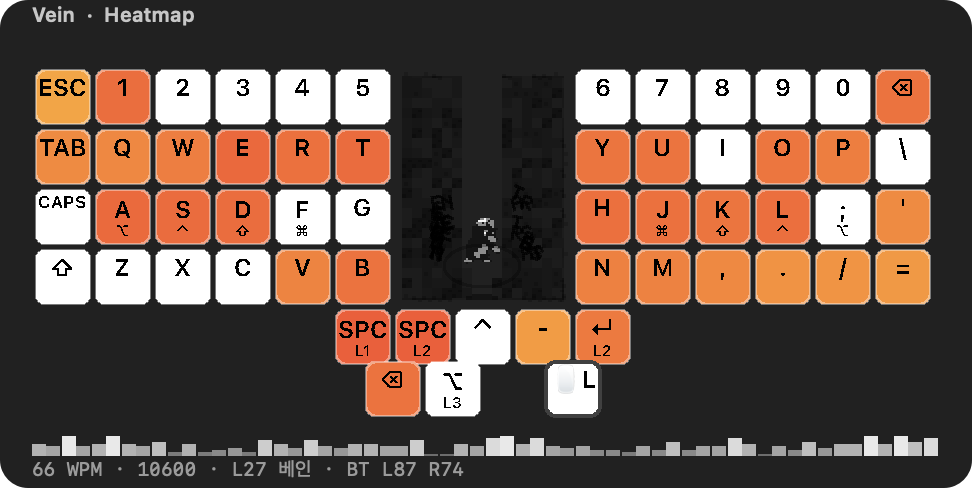
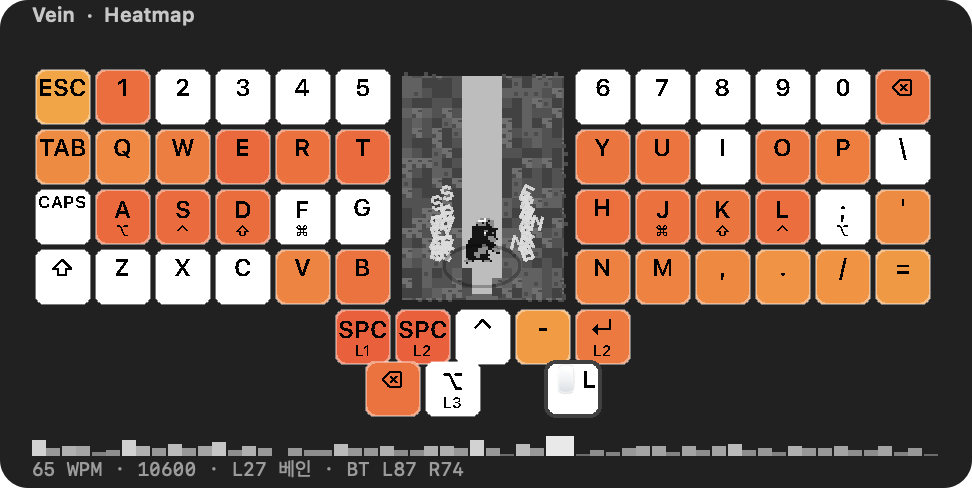
Lighten the shaft well so the miner reads on a dark card
The crater was a hole through to the HUD, so the dark 3-tone
sprite disappeared. Fill the pit with a well lighter than the
body; README shots force the dark-HUD dirt tones.

Changed region(s): [[0.4012, 0.1537, 0.5864, 0.6148], [0.0309, 0.8914, 0.9877, 0.9529]]

diff --git a/Companion.swift b/Companion.swift
@@ -40,6 +40,48 @@ struct GlyphMote {
     var spin: CGFloat
 }
 
+/// Shaft colors that keep the dark 3-tone sprite readable.
+/// `ink` is the UI text color: light on a dark HUD, dark on a light HUD.
+private struct ShaftTone {
+    let well: NSColor
+    let dirtLo: NSColor
+    let dirtMid: NSColor
+    let dirtHi: NSColor
+    let stone: NSColor
+    let stoneMark: NSColor
+    let lip: NSColor
+    let vein: NSColor
+
+    static func make(_ ink: NSColor) -> ShaftTone {
+        let c = ink.usingColorSpace(.deviceRGB) ?? ink
+        let luma = 0.2126 * c.redComponent + 0.7152 * c.greenComponent + 0.0722 * c.blueComponent
+        // Well is always lighter than the sprite's mid gray (~0.55) so the
+        // body reads. Dirt stays darker than the well (earth around a hole).
+        if Companion.exportShot || luma > 0.5 {
+            return ShaftTone(
+                well: NSColor(white: 0.74, alpha: 1),
+                dirtLo: NSColor(white: 0.26, alpha: 1),
+                dirtMid: NSColor(white: 0.32, alpha: 1),
+                dirtHi: NSColor(white: 0.38, alpha: 1),
+                stone: NSColor(white: 0.44, alpha: 1),
+                stoneMark: NSColor(white: 0.30, alpha: 1),
+                lip: NSColor(white: 0.40, alpha: 1),
+                vein: NSColor(white: 0.86, alpha: 0.88)
+            )
+        }
+        return ShaftTone(
+            well: NSColor(white: 0.80, alpha: 1),
+            dirtLo: NSColor(white: 0.58, alpha: 1),
+            dirtMid: NSColor(white: 0.66, alpha: 1),
+            dirtHi: NSColor(white: 0.72, alpha: 1),
+            stone: NSColor(white: 0.50, alpha: 1),
+            stoneMark: NSColor(white: 0.40, alpha: 1),
+            lip: NSColor(white: 0.52, alpha: 1),
+            vein: NSColor(white: 0.22, alpha: 0.88)
+        )
+    }
+}
+
 final class Companion {
     static let shared = Companion()
 
@@ -59,6 +101,9 @@ final class Companion {
     private var bobKick: CGFloat = 0
     static let craterDepth: CGFloat = 14
     static let tile: CGFloat = 5
+    /// README / share shots sit on a dark card even when the key palette
+    /// is light — force the dark-HUD shaft so the miner is not on beige.
+    static var exportShot = false
     var shaftTarget: NSPoint = .zero
     var onFrame: (() -> Void)?
 
@@ -303,6 +348,13 @@ final class Companion {
 
     private func drawShaft(in shaft: NSRect, ink: NSColor) {
         NSGraphicsContext.current?.shouldAntialias = false
+        let tone = ShaftTone.make(ink)
+        // Light well first — the crater is a hole, and a dark sprite on the
+        // dark card / HUD disappears. Dirt tiles then cover everything but
+        // the pit, so the miner stands in dust, not in a black gap.
+        tone.well.setFill()
+        shaft.fill()
+
         let tile = Companion.tile
         let feetY = shaftTarget.y
         let floorY = shaft.minY
@@ -324,12 +376,11 @@ final class Companion {
                     continue
                 }
                 let kind = Self.block(tx, ty - scroll)
-                Self.fillBlock(cell, kind: kind, ink: ink)
+                Self.fillBlock(cell, kind: kind, tone: tone)
             }
         }
 
-        // Crater lip — packed dirt under the drill.
-        ink.withAlphaComponent(0.42).setFill()
+        tone.lip.setFill()
         let lipW: CGFloat = holeHalf * 2 - 4
         NSRect(x: floor(shaft.midX - lipW / 2), y: floor(floorY), width: ceil(lipW), height: 2).fill()
         NSRect(x: floor(shaft.midX - 5), y: floor(floorY + 2), width: 10, height: 1).fill()
@@ -341,8 +392,7 @@ final class Companion {
             if !shaft.contains(mid) { continue }
             if Self.inPit(mid.x, mid.y, midX: shaft.midX, floorY: floorY,
                           feetY: feetY, holeHalf: holeHalf) { continue }
-            LCDFont.draw(v.ch, at: mid, pixel: 1, color: ink.withAlphaComponent(0.62),
-                         angle: v.angle)
+            LCDFont.draw(v.ch, at: mid, pixel: 1, color: tone.vein, angle: v.angle)
         }
     }
 
@@ -363,28 +413,27 @@ final class Companion {
         return (x >> 16) & 7
     }
 
-    private static func fillBlock(_ cell: NSRect, kind: Int, ink: NSColor) {
+    private static func fillBlock(_ cell: NSRect, kind: Int, tone: ShaftTone) {
         let r = NSRect(x: floor(cell.minX), y: floor(cell.minY),
                        width: ceil(cell.width), height: ceil(cell.height))
         switch kind {
         case 6, 7:
-            // Stone / cobble
-            ink.withAlphaComponent(0.48).setFill()
+            tone.stone.setFill()
             r.fill()
-            ink.withAlphaComponent(0.22).setFill()
+            tone.stoneMark.setFill()
             NSRect(x: r.minX, y: r.minY, width: 2, height: 2).fill()
             NSRect(x: r.maxX - 2, y: r.maxY - 2, width: 2, height: 1).fill()
         case 0, 1:
-            ink.withAlphaComponent(0.16).setFill()
+            tone.dirtLo.setFill()
             r.fill()
         case 2, 3:
-            ink.withAlphaComponent(0.26).setFill()
+            tone.dirtMid.setFill()
             r.fill()
         default:
-            ink.withAlphaComponent(0.34).setFill()
+            tone.dirtHi.setFill()
             r.fill()
             if kind == 5 {
-                ink.withAlphaComponent(0.18).setFill()
+                tone.stoneMark.setFill()
                 NSRect(x: r.minX + 1, y: r.minY + 1, width: 2, height: 2).fill()
             }
         }

diff --git a/main.swift b/main.swift
@@ -630,6 +630,8 @@ final class AppDelegate: NSObject, NSApplicationDelegate, NSWindowDelegate {
         store.load()
         let demo = ProcessInfo.processInfo.arguments.contains("--demo")
         if demo { stats.seedDemo() }
+        Companion.exportShot = true
+        defer { Companion.exportShot = false }
         let kb = KeyboardView(frame: NSRect(x: 0, y: 0, width: kbSize.width, height: kbSize.height))
         kb.store = store
         Companion.shared.layout(in: kb.shaftRect())
